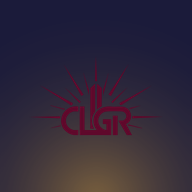
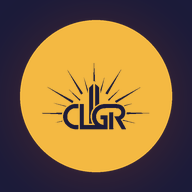
Flèche de retour visible dans l'en-tête + nouvelles icônes (CLGR sur disque or)
Claude-Session: https://claude.ai/code/session_01MKTGoiahNoE6qHW2kvVrc3

diff --git a/App.jsx b/App.jsx
@@ -1,5 +1,5 @@
 import React, { useState, useEffect, useRef } from "react";
-import { Home, BookOpen, Compass, ChevronRight, Flame, Users, GraduationCap, HandHeart, Megaphone, Play, Share2, Pause, Video, Radio, Youtube, Facebook, Volume2, Tv, Heart, Send, Check, Award, Calendar, UserPlus, Sparkles, Newspaper, ExternalLink } from "lucide-react";
+import { Home, BookOpen, Compass, ChevronRight, ChevronLeft, Flame, Users, GraduationCap, HandHeart, Megaphone, Play, Share2, Pause, Video, Radio, Youtube, Facebook, Volume2, Tv, Heart, Send, Check, Award, Calendar, UserPlus, Sparkles, Newspaper, ExternalLink } from "lucide-react";
 
 const FONTS = ``;
 
@@ -2393,6 +2393,7 @@ export default function App() {
   const navKey = `${tab}|${mediaView}|${moreView ?? ""}`;
   const navKeyRef = useRef(navKey);
   const skipNextPush = useRef(false);
+  const navDepth = useRef(0);
   useEffect(() => {
     try {
       window.history.replaceState({ nav: navKey, tab, mediaView, moreView }, "");
@@ -2403,6 +2404,7 @@ export default function App() {
       const st = ev.state;
       if (!st || !st.nav) return;
       if (st.nav !== navKeyRef.current) skipNextPush.current = true;
+      navDepth.current = Math.max(0, navDepth.current - 1);
       setTab(st.tab);
       setMediaView(st.mediaView);
       setMoreView(st.moreView);
@@ -2420,11 +2422,22 @@ export default function App() {
     try {
       if (!window.history.state || window.history.state.nav !== navKey) {
         window.history.pushState({ nav: navKey, tab, mediaView, moreView }, "");
+        navDepth.current += 1;
       }
     } catch {
       // historique indisponible — rien à faire
     }
   }, [navKey]);
+  const showBack = tab !== "home" || moreView !== null;
+  const goBack = () => {
+    if (navDepth.current > 0) {
+      window.history.back();
+    } else if (moreView !== null) {
+      setMoreView(null);
+    } else {
+      setTab("home");
+    }
+  };
   const [loaded, setLoaded] = useState(false);
   const [isPlaying, setIsPlaying] = useState(false);
   const [liveSource, setLiveSource] = useState("youtube");
@@ -2786,11 +2799,22 @@ export default function App() {
             zIndex: 2,
           }}
         >
-          <div>
-            <div className="display" style={{ fontSize: 15, fontWeight: 600, letterSpacing: 0.2 }}>
-              {t.tagline}
+          <div style={{ display: "flex", alignItems: "center", gap: 10, minWidth: 0 }}>
+            {showBack && (
+              <button
+                onClick={goBack}
+                aria-label={lang === "en" ? "Back" : lang === "ht" ? "Retounen" : "Retour"}
+                style={{ flexShrink: 0, width: 38, height: 38, borderRadius: "50%", background: "rgba(244,185,66,0.14)", border: "1px solid rgba(244,185,66,0.4)", color: COLORS.dawn, display: "flex", alignItems: "center", justifyContent: "center", cursor: "pointer", padding: 0 }}
+              >
+                <ChevronLeft size={22} />
+              </button>
+            )}
+            <div>
+              <div className="display" style={{ fontSize: 15, fontWeight: 600, letterSpacing: 0.2 }}>
+                {t.tagline}
+              </div>
+              <div style={{ fontSize: 11, color: COLORS.mist, marginTop: 1 }}>{t.subtagline}</div>
             </div>
-            <div style={{ fontSize: 11, color: COLORS.mist, marginTop: 1 }}>{t.subtagline}</div>
           </div>
           <div style={{ display: "flex", gap: 4, background: "rgba(255,255,255,0.06)", padding: 3, borderRadius: 999 }}>
             {Object.keys(CONTENT).map((code) => (
